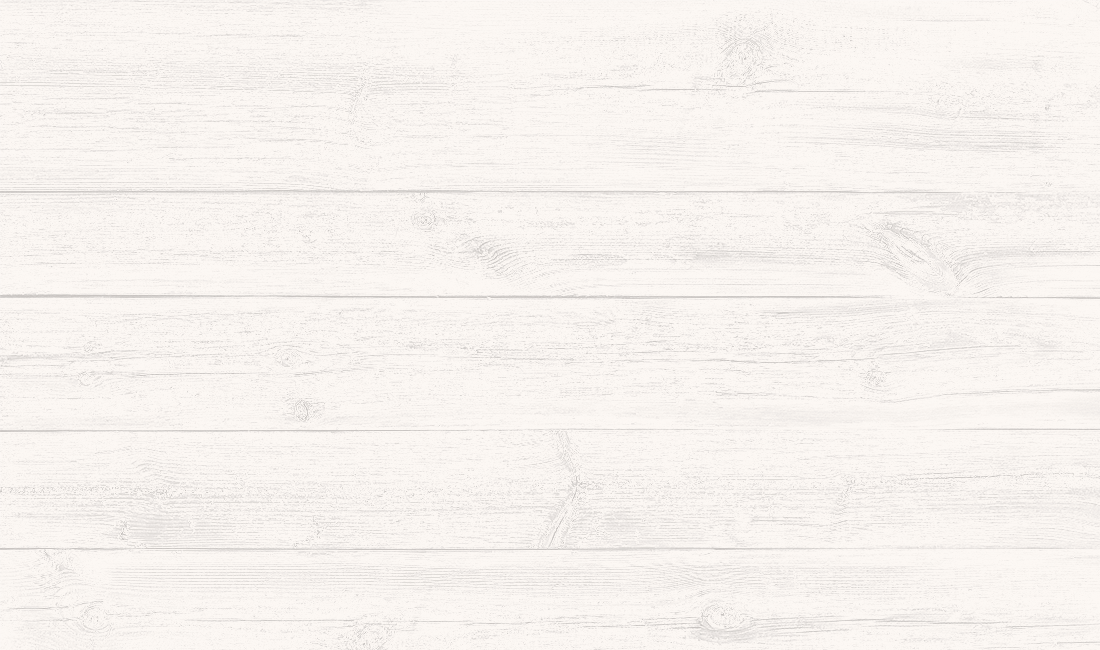
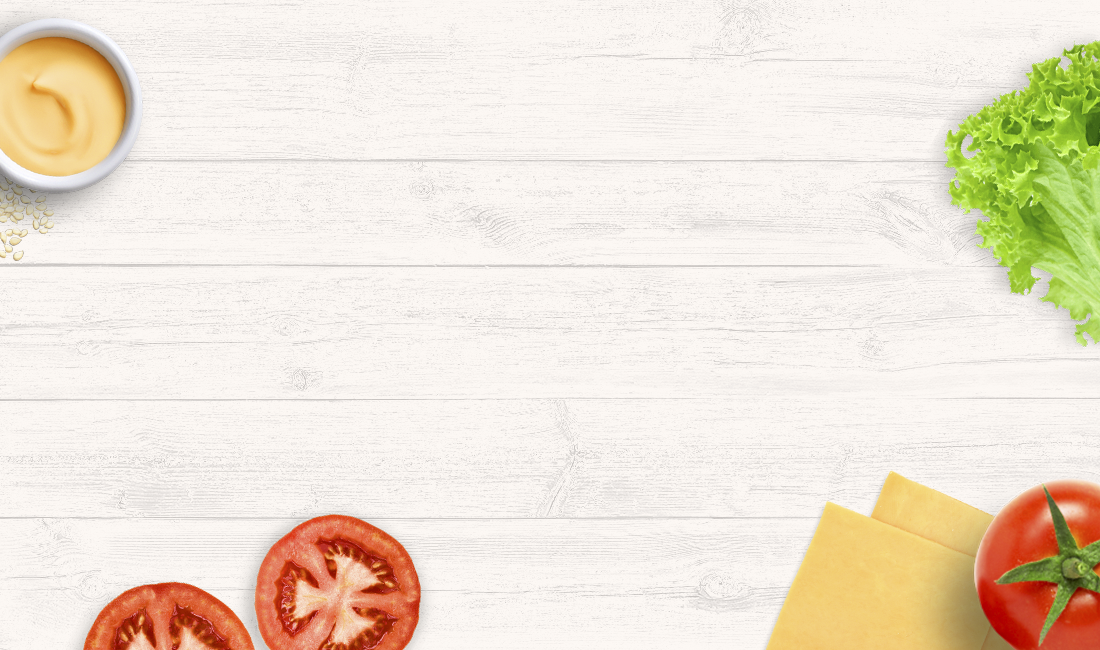
Second commit

diff --git a/index.html b/index.html
@@ -59,12 +59,6 @@
                     МЫ ЛУЧШИЕ
                 </div>
                 
-                <div class="vegetables sous"></div>
-                <div class="vegetables salad"></div>
-                <div class="vegetables tomatos2"></div>
-                <div class="vegetables cheese"></div>
-                <div class="vegetables tomato"></div>
-                
                 <div class="sidebars">
                 <div class="left-sidebar">
                     <div class="meat-foto">
@@ -102,11 +96,7 @@
                 </div>
                 </div>
                 </div>
-                <div class="sous"><img src="/image/sous.png" alt=""></div>
-                <div class="salad"><img src="/image/salad.png" alt=""></div>
-                <div class="tomatos2"><img src="/image/tomatos2.png" alt=""></div>
-                <div class="cheese"><img src="/image/cheese.png" alt=""></div>
-                <div class="tomato"><img src="/image/tomato.png" alt=""></div>
+                
             </div>
         </div>
         

diff --git a/css/index.css b/css/index.css
@@ -135,8 +135,8 @@ li .nav:after{
 .content{
     height: 950px;
     background-image: url(/image/bg2.png);
-    background-size: cover;
-    background-position: 10px -200px;
+    background-size: contain;
+    background-repeat: no-repeat;
     margin-top: 0px;
     position: relative;
 }
@@ -209,44 +209,6 @@ li .nav:after{
     line-height: 24px;
     margin-right: -50px;
 }
-
-.vegetables{
-    
-}
-
-.sous{
-    position: absolute;
-    left:-170px;
-    top: 0px;
-    
-}
-
-.salad{
-    position: absolute;
-    right:-350px;
-    top: 0px;
-}
-
-.tomatos2{
-    position: absolute;
-    left:590px;
-    top:770px;
-    transform: rotate(30deg);
-    z-index: 1;
-}
-
-.cheese{
-   position: absolute;
-    left:1350px;
-    top:670px;
-}
-
-.tomato{
-    position: absolute;
-    left:1700px;
-    top:790px;
-}
-
 
 .peaple{
     height: 490px;
